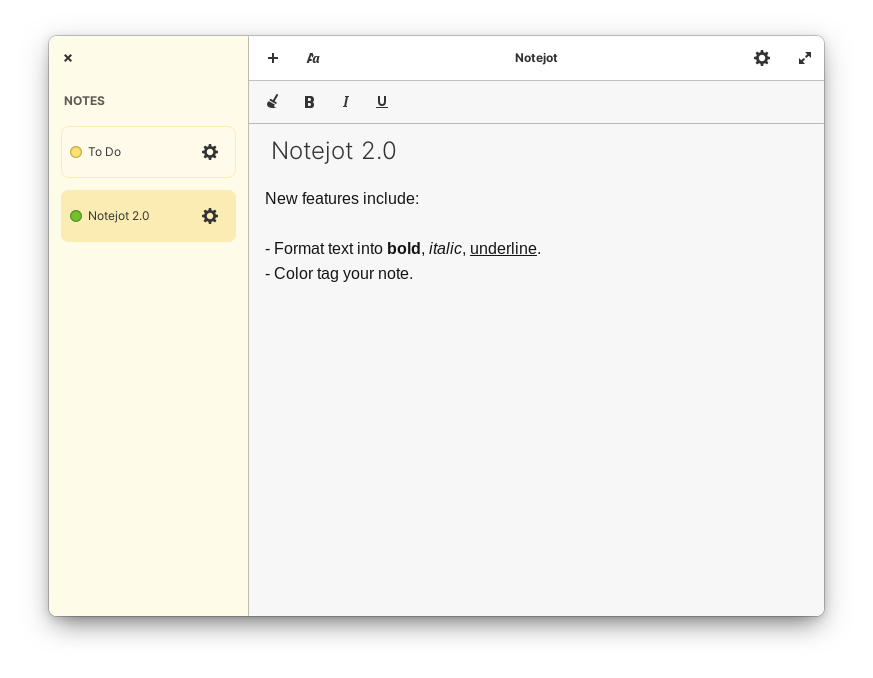
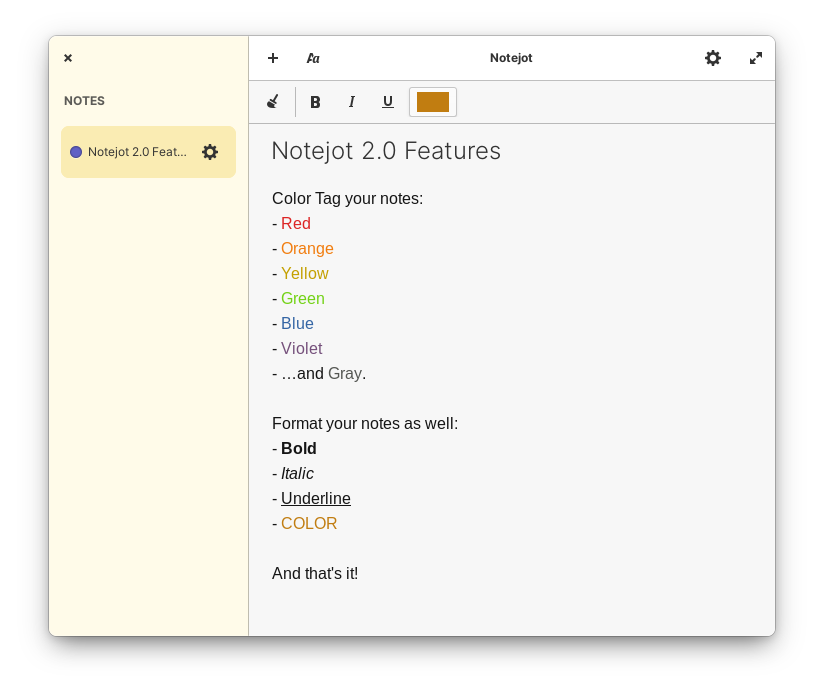
color button

diff --git a/data/app.css b/data/app.css
@@ -185,3 +185,7 @@ window.unified decoration-overlay {
 .notejot-stack-dark {
     background: #151515;
 }
+
+.vsep {
+    background: alpha(black, 0.25);
+}
